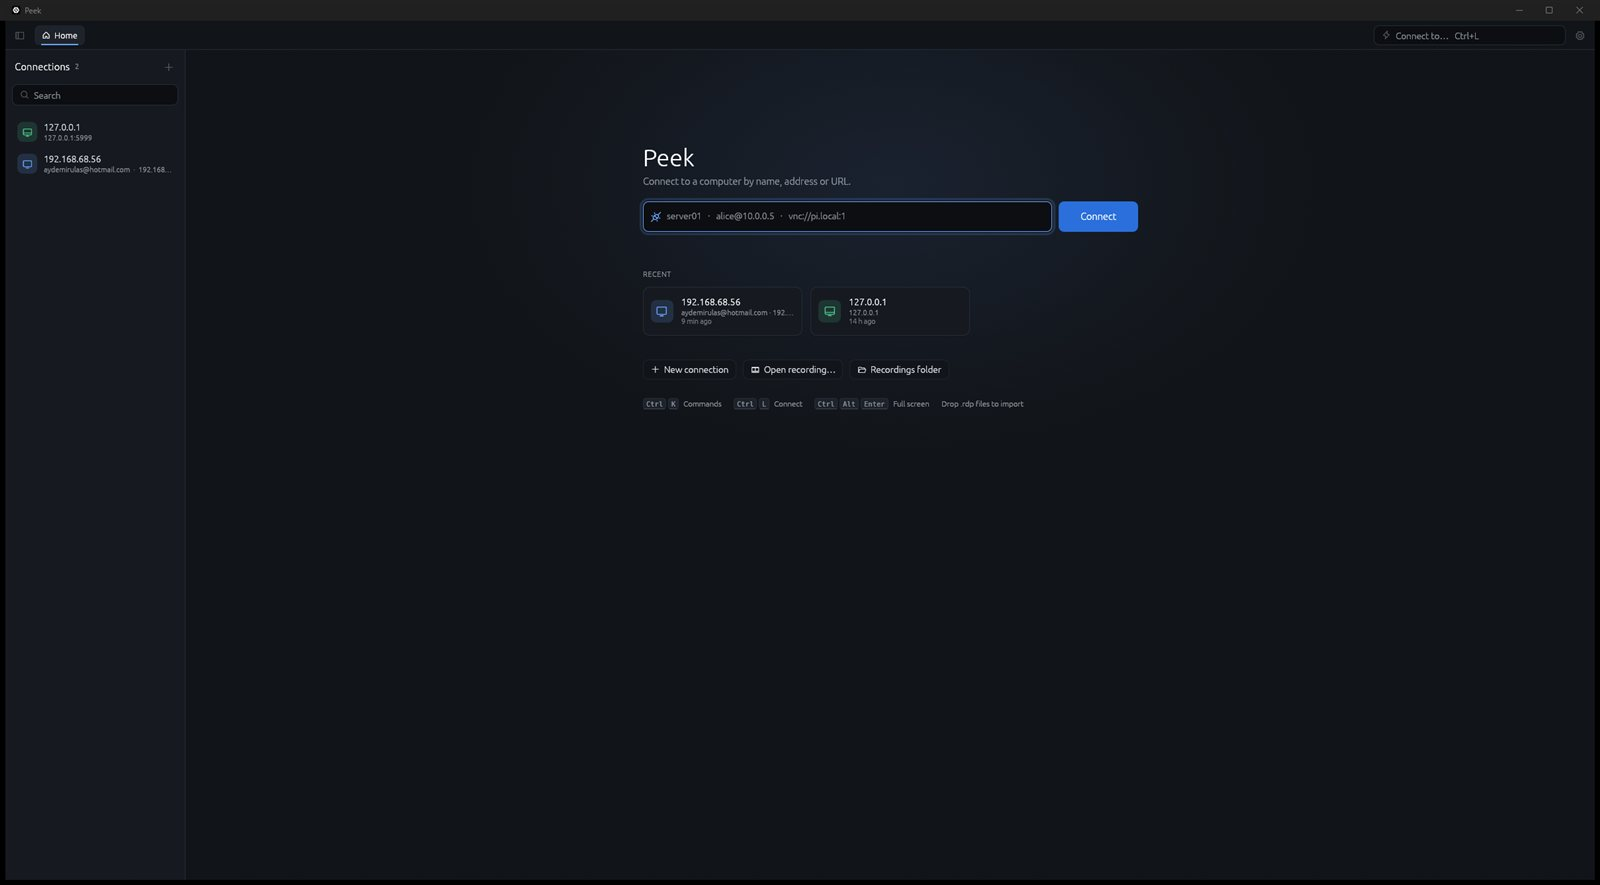
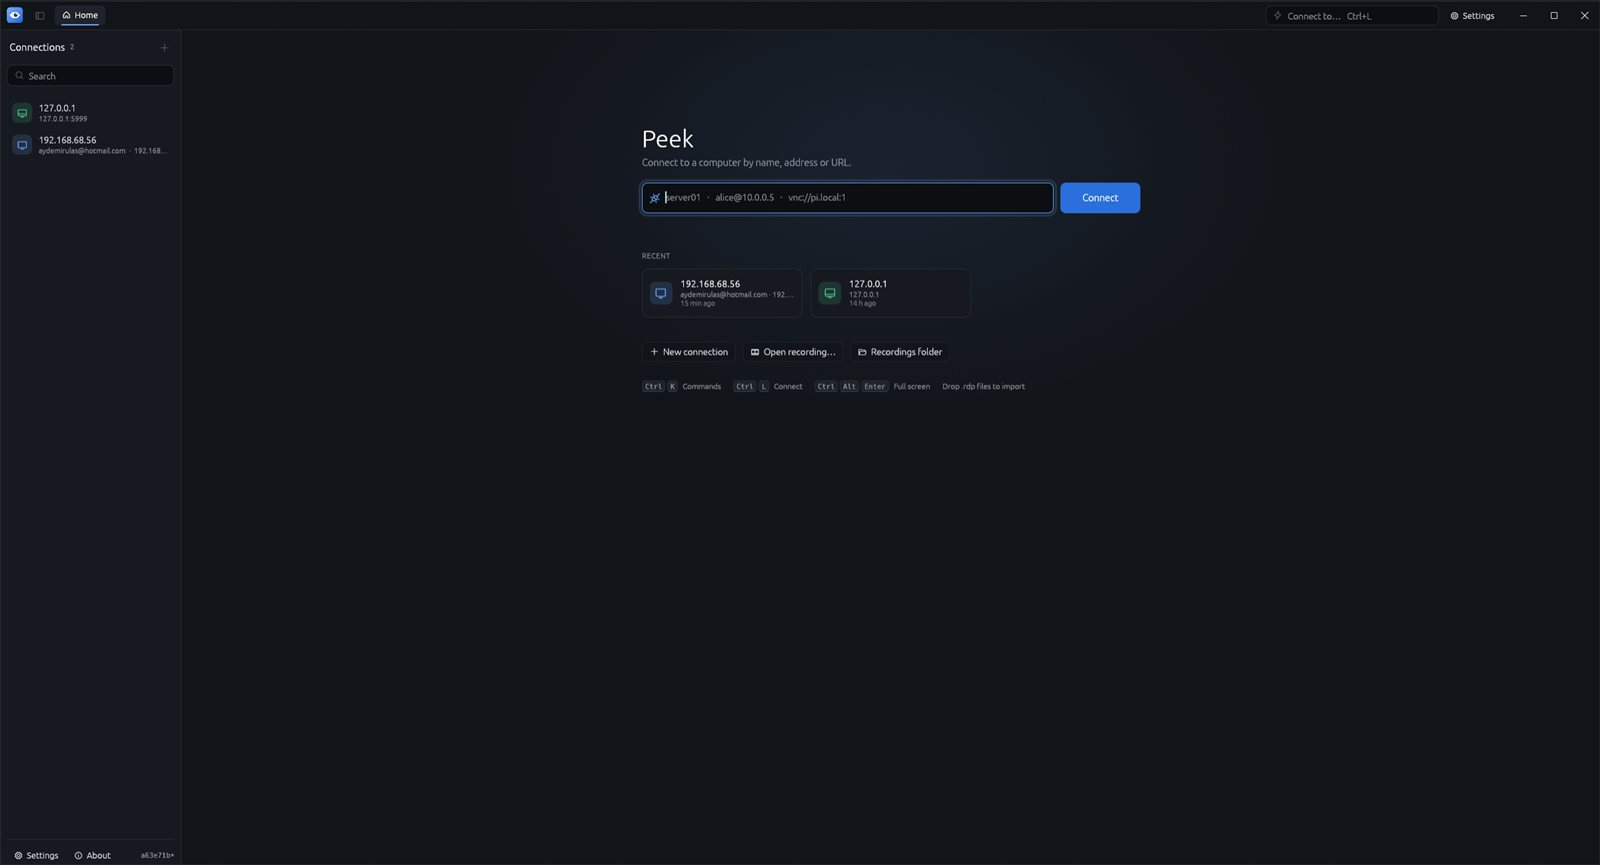
Docs: tracker screenshots for title bar and About, --version in README

diff --git a/docs/tracker.html b/docs/tracker.html
@@ -98,7 +98,8 @@ th{font:500 12px var(--f-mono);color:var(--muted);text-transform:uppercase;lette
   <h2>What it looks like now</h2>
   <div class="shots">
     <figure><img src="shots/session.jpg" alt="Peek connected to the test VNC server: tab bar, connection sidebar, floating session toolbar and the remote picture" loading="lazy"><figcaption>Live VNC session against the bundled test server. The floating toolbar appears at the top edge; the red dot is the server drawing where Peek's pointer is.</figcaption></figure>
-    <figure><img src="shots/home.jpg" alt="Peek home screen with quick connect field, recent connections and actions" loading="lazy"><figcaption>Home: quick connect, recent connections, open sessions as live thumbnails.</figcaption></figure>
+    <figure><img src="shots/home.jpg" alt="Peek home screen with quick connect field, recent connections and actions" loading="lazy"><figcaption>Home with Peek's own title bar: logo, tabs, quick connect, Settings and window buttons. Sidebar footer shows Settings, About and the build commit.</figcaption></figure>
+    <figure><img src="shots/about.jpg" alt="About Peek dialog with logo, version, commit, build date and settings path" loading="lazy"><figcaption>About: version, commit (copyable, flagged when built with uncommitted changes), build date and profile.</figcaption></figure>
   </div>
 </section>
 
@@ -209,6 +210,7 @@ const MILESTONES = [
     ["Randomized no-panic test over all VNC decoders",1],["Bounded allocations for hostile servers",1],["Release profile",1],["Installer",0]]},
 ];
 const LOG = [
+  {d:"2026-10-16", h:"Own title bar, About box, release script", items:["The window has no native frame any more: Peek's title bar carries the logo, tabs, quick connect, a labelled Settings button and Windows-style minimize / maximize / close. Empty space drags the window with normal snapping; double-click maximizes; edges resize","Logo drawn in code (an eye peeking from a blue tile), used for the taskbar icon, title bar and About","Settings is now easy to find: title bar, sidebar footer, Ctrl+, and the command palette","build.rs stamps the commit (marked dirty for uncommitted changes), build date and profile. Shown in About (copyable), the sidebar footer and peek --version","peek-release in ~/.local/bin (on PATH): release build, target/ trim, closes running instances politely, installs peek.exe (keeps peek.old.exe), starts it. Verified end to end: 35 s incremental release build of 49deadfa8","43 tests passing"]},
   {d:"2026-10-16", h:"Interface pass and screen size setting", items:["The text cursor over the connection list came from egui making every label selectable text. Labels are no longer selectable, and anything clickable shows a hand cursor","Connection rows are custom-drawn and full width: protocol tile, live status dot, name and user · host cut to fit, and on hover a favorite star, a ⋯ menu and a connect button. Arrow keys and Enter work from the search box","Collapsible sections with an animated chevron and counts; framed search fields with focus ring and clear button; tabs with an animated underline and close on hover","Home: accent glow, large connect field, Recent as cards that lift on hover, key-cap shortcut hints. Softer shadows, floating scrollbars, slightly larger text","New Screen size setting per connection: Match window, 12 presets or custom. 1920 × 1080 is the default, and .rdp import takes desktopwidth/desktopheight","Safety fix found on the way: an unreadable library file used to fall back to empty and could then be overwritten. A copy is now kept next to it","42 tests passing"]},
   {d:"2026-10-16", h:"Clipboard in Peek's own fields", items:["Ctrl+V did nothing in Peek's text fields: eframe was built without its clipboard feature, so paste read an empty in-app buffer. Enabled; copying out of Peek works now too","Inside a session, Ctrl+V with an image on the clipboard was swallowed instead of reaching the remote machine. The real key is now replayed, including Shift+Insert"]},
   {d:"2026-10-16", h:"Microsoft account sign-in", items:["MicrosoftAccount\\you@hotmail.com used to fail before connecting: the auth library rejects a domain paired with an account that contains @","Such accounts are now sent as a UPN (you@hotmail.com), the form Windows accepts at its own logon screen. DOMAIN\\user and user@domain work as before","Re-entering credentials no longer drops a connection's separate Domain field","New test runs every accepted user name format through the auth library itself; 41 tests passing"]},

diff --git a/README.md b/README.md
@@ -29,6 +29,7 @@ peek vnc://pi.local:1         # VNC display 1 = port 5901
 peek alice@10.0.0.5:3390      # RDP with user name and port
 peek Work.rdp                 # import an mstsc connection file
 peek session.peekrec          # play a recording
+peek --version                # version and the commit it was built from
 ```
 
 | Shortcut | Action |
